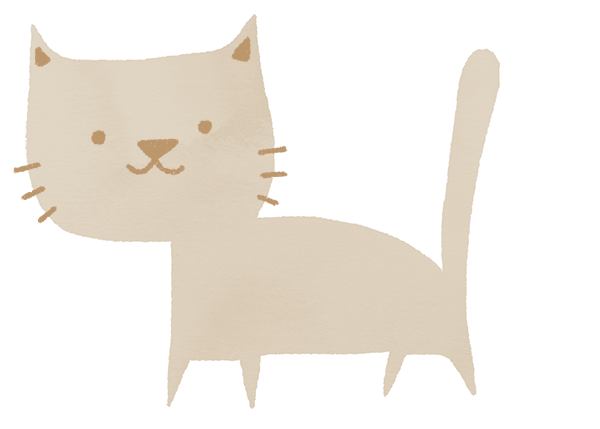
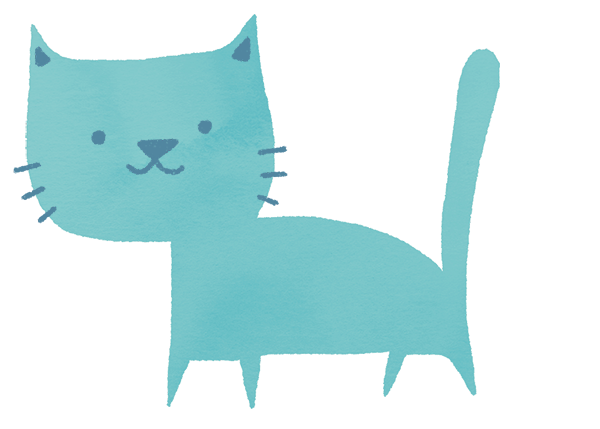
Refactor code
Put cats' data in an array

diff --git a/index.html b/index.html
@@ -15,42 +15,16 @@
   <!-- jQuery -->
   <script src="https://cdnjs.cloudflare.com/ajax/libs/jquery/3.3.1/jquery.min.js"></script>
 
-  <!-- Handlebars -->
-  <script src="https://cdnjs.cloudflare.com/ajax/libs/handlebars.js/4.0.12/handlebars.min.js"></script>
-
 </head>
 
 <body>
 
-<div class="container-main">
-  <div class="container-names">
-    <ul class="cat-list">
-      <li class="cat-list-item">Alice</li>
-      <li class="cat-list-item">Jay</li>
-      <li class="cat-list-item">Bonnie</li>
-      <li class="cat-list-item">Dan</li>
-    </ul>
+  <div class="container-main">
+    <div class="container-names">
+      <ul class="cat-list"></ul>
+    </div>
+    <div class="container-cat"></div>
   </div>
-
-  <div class="container-cat">
-    <img id="cat1" class="cat-image" src="img/Cat1.png" alt="A cat image">
-    <p id="cat-name-1" class="cat-name"></p>
-    <p class="num-of-clicks" id="clicks-1">Clicks: 0</p>
-  </div>
-</div>
-
-
-  <!-- <div class="img-container">
-    <img id="cat2" class="cat-image" src="img/Cat2.png" alt="Another cat image">
-    <p id="cat-name-2" class="cat-name"></p>
-    <p class="num-of-clicks" id="clicks-2">Clicks: 0</p>
-  </div>
-
-  <div class="img-container">
-    <img id="cat3" class="cat-image" src="img/Cat3.png" alt="Yet another cat image">
-    <p id="cat-name-3" class="cat-name"></p>
-    <p class="num-of-clicks" id="clicks-3">Clicks: 0</p>
-  </div> -->
 
   <script src="app.js"></script>
 

diff --git a/app.js b/app.js
@@ -1,17 +1,39 @@
 // Initialise variables
-var count1 = 0;
-var count2 = 0;
-var count3 = 0;
-var catName1 = 'Alice';
-var catName2 = 'Jay';
-var catName3 = 'Bonnie';
+var cats = [{
+  name: 'Alice',
+  count: 0,
+  color: '#BE976D'
+}, {
+  name: 'Jay',
+  count: 6,
+  color: '#5186A0'
+}, {
+  name: 'Bonnie',
+  count: 8,
+  color: '#C56F71'
+}, {
+  name: 'Daniel',
+  count: 15,
+  color: '#5B75A6'
+}];
 
+// Load the list of cats
+cats.forEach(function(cat) {
+  let Template = `<li class='cat-list-item'>${cat.name}</li>`;
+  $('.cat-list').append(Template);
+});
 
-// Display cat names
-$('#cat-name-1').text(catName1);
-$('#cat-name-2').text(catName2);
-$('#cat-name-3').text(catName3);
+// Load selected cat
+function loadCat(id) {
+  let Template = `
+    <img class="cat-image" src="img/Cat${id}.png" alt="A cat image">
+    <p class="cat-name">${cats[id].name}</p>
+    <p class="num-of-clicks">Clicks: ${cats[id].count}</p>`;
+  $('.container-cat').append(Template);
+  $('.cat-name').css('color: ' + cats[id].color + ';');
+}
 
+loadCat(0);
 
 // Handle clicks
 $('#cat1').click(function() {

diff --git a/style.css b/style.css
@@ -17,7 +17,7 @@ body {
   justify-content: center;
 }
 
-#cat1, #cat2, #cat3 {
+.cat-image {
   width: 240px;
   display: block;
   margin-top: 1em;
@@ -68,6 +68,11 @@ body {
   font-weight: 300;
   font-size: 1.5em;
   margin: 0.6em 0;
+}
+
+.cat-list-item:hover {
+  text-decoration: underline;
+  cursor: pointer;
 }
 
 .cat-name {
